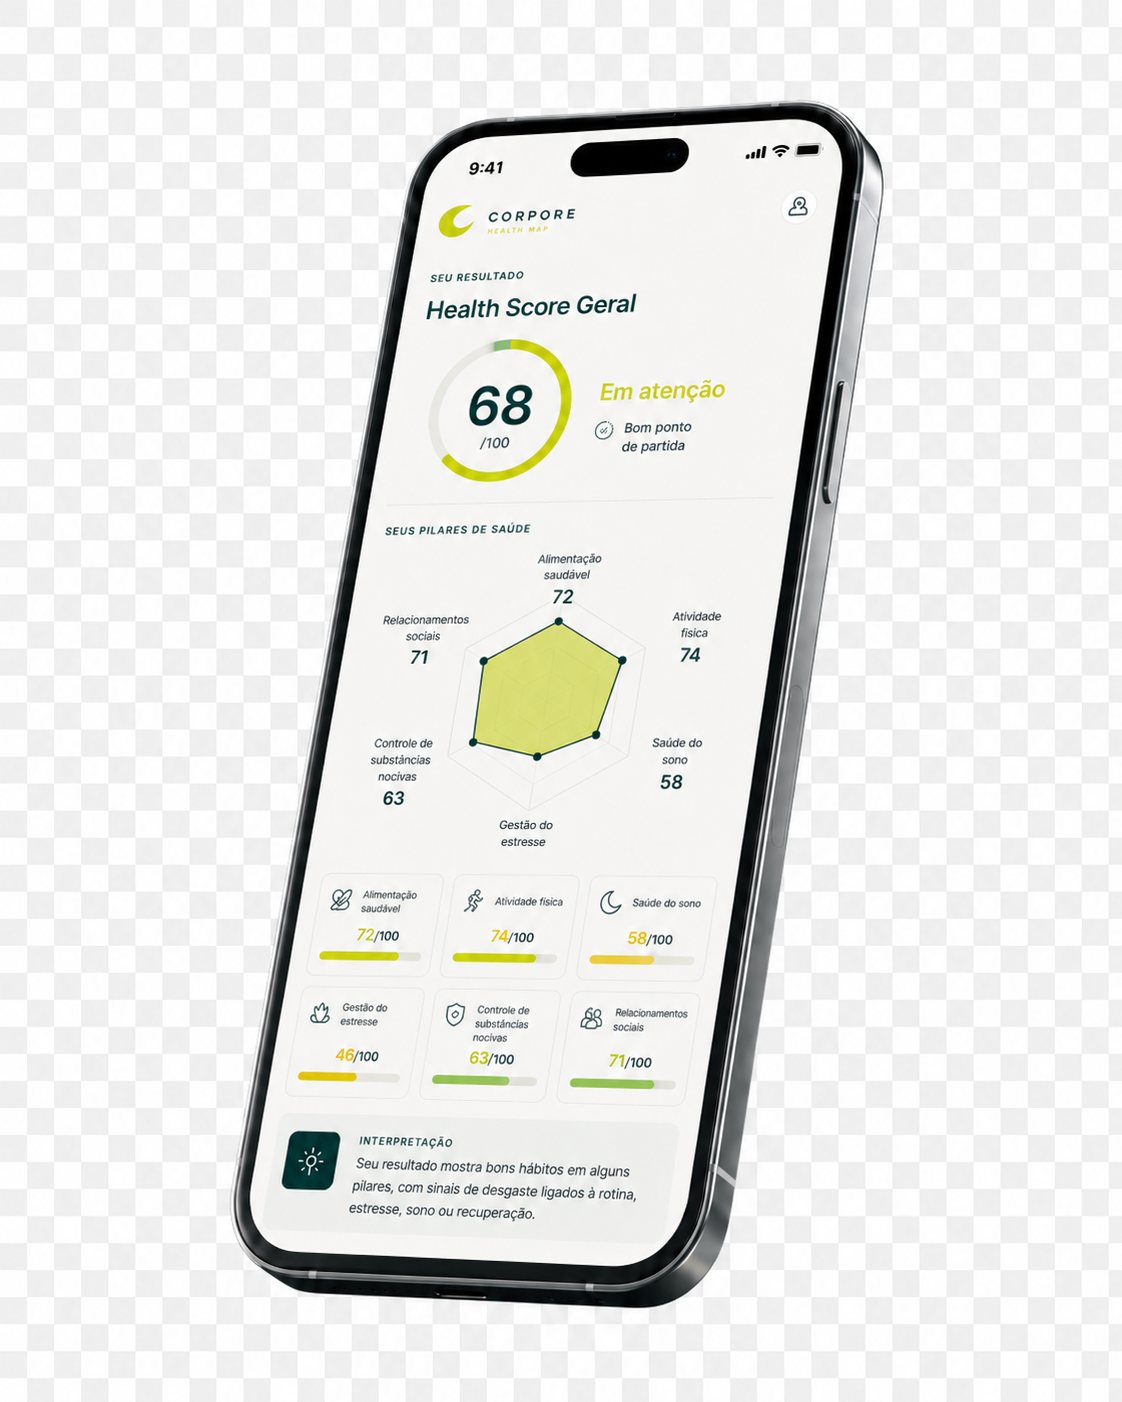
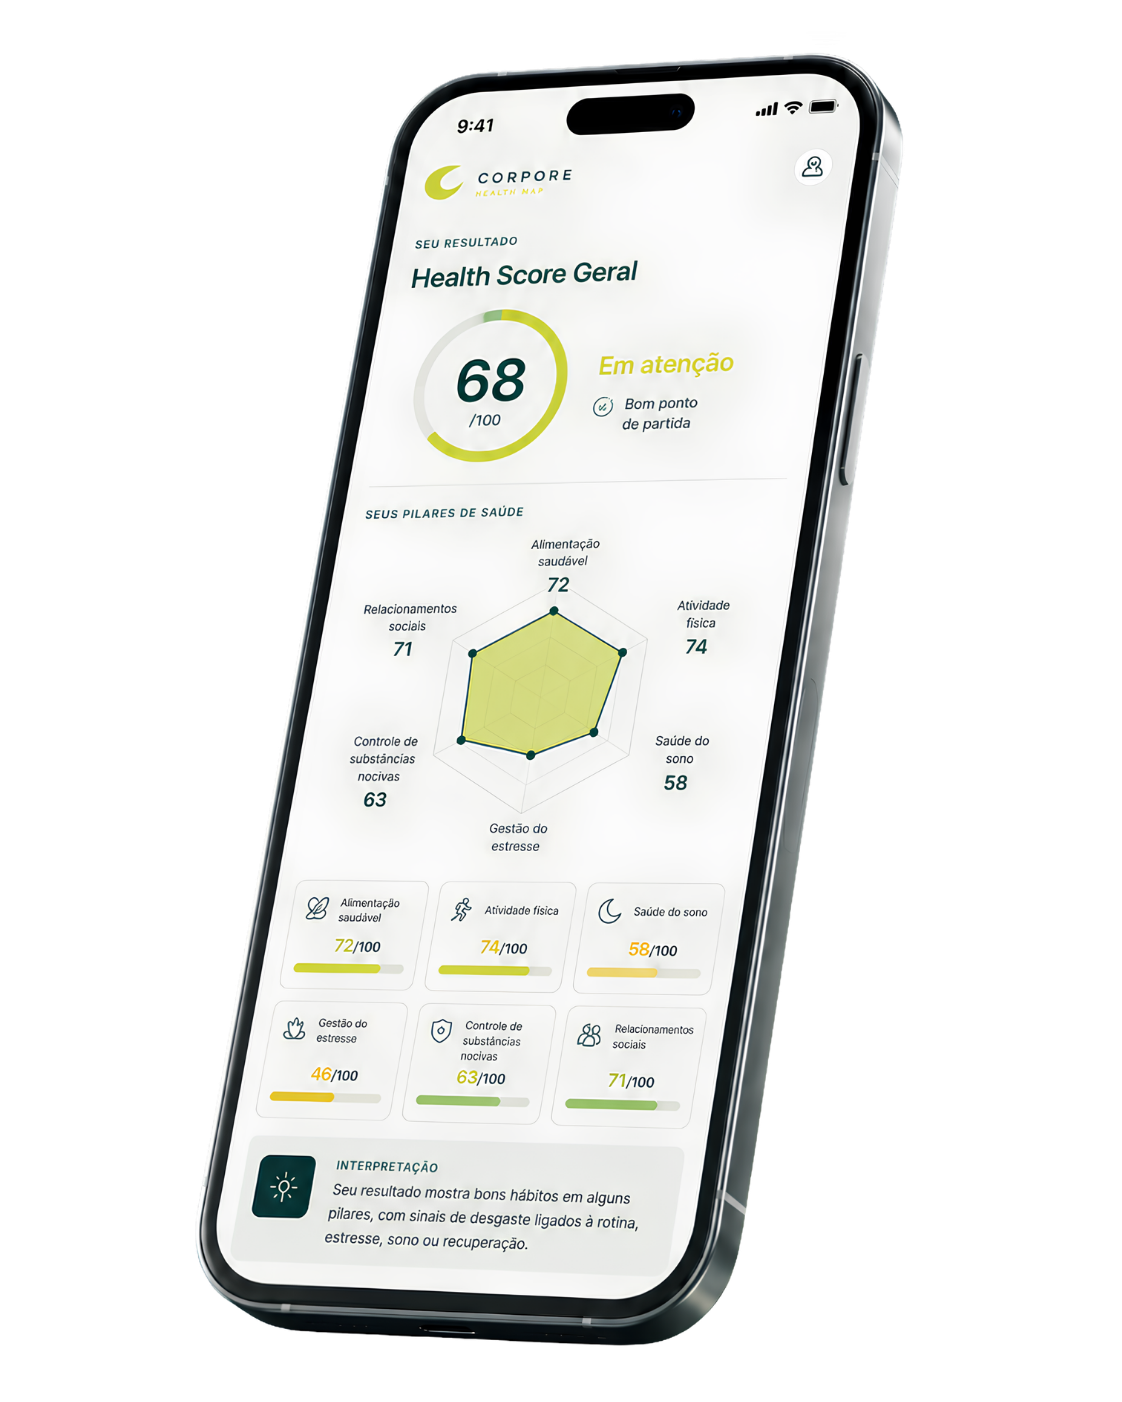
update: imagem hero com fundo transparente real (Canva)
- Substitui imagem por versão com fundo transparente feita no Canva
- Remove mix-blend-mode e wrapper redundante da imagem
- animate-float aplicado diretamente na tag <Image>

diff --git a/corpore-health-map/components/sections/HeroSection.tsx b/corpore-health-map/components/sections/HeroSection.tsx
@@ -94,17 +94,15 @@ export default function HeroSection() {
 
           {/* Right: real app image */}
           <div className="reveal flex justify-center lg:justify-end">
-            <div className="relative animate-float">
-              <div className="relative drop-shadow-2xl">
-                <Image
-                  src="/avaliacao-saude-online-corpore-health-map.png"
-                  alt="Prévia do Corpore Health Map exibindo o Health Score e os pilares de saúde — avaliação de saúde online gratuita"
-                  width={320}
-                  height={620}
-                  priority
-                  className="w-auto max-h-[580px] object-contain"
-                />
-              </div>
+            <div className="relative">
+              <Image
+                src="/avaliacao-saude-online-corpore-health-map.png"
+                alt="Prévia do Corpore Health Map exibindo o Health Score e os pilares de saúde — avaliação de saúde online gratuita"
+                width={320}
+                height={620}
+                priority
+                className="w-auto max-h-[580px] object-contain animate-float"
+              />
 
               {/* Floating badge top */}
               <div